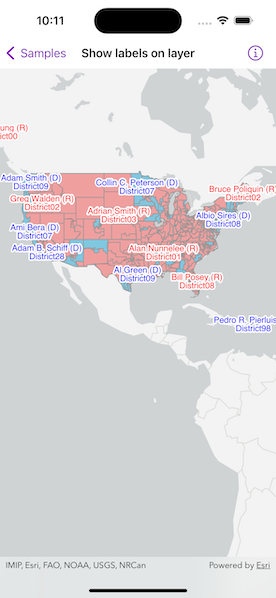
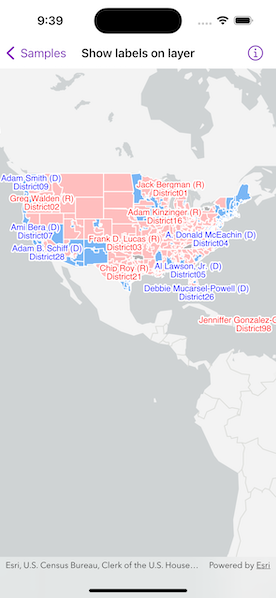
Update with review suggestions.

diff --git a/Shared/Samples/Show labels on layer/ShowLabelsOnLayerView.swift b/Shared/Samples/Show labels on layer/ShowLabelsOnLayerView.swift
@@ -39,13 +39,16 @@ struct ShowLabelsOnLayerView: View {
         MapView(map: map)
             .task {
                 do {
-                    // Create a feature table from the URL.
-                    let featureTable = ServiceFeatureTable(url: .usaCongressionalDistricts)
+                    // Create a portal item from an id.
+                    let portalItem = PortalItem(
+                        portal: .arcGISOnline(connection: .anonymous),
+                        id: .usaCongressionalDistricts
+                    )
                     
-                    try await featureTable.load()
+                    try await portalItem.load()
                     
-                    // Create a feature layer from the table.
-                    let featureLayer = FeatureLayer(featureTable: featureTable)
+                    // Create a feature layer from the portal item.
+                    let featureLayer = FeatureLayer(item: portalItem)
                     
                     // Add the layer to the map.
                     map.addOperationalLayer(featureLayer)
@@ -62,7 +65,7 @@ struct ShowLabelsOnLayerView: View {
 }
 
 private extension ShowLabelsOnLayerView {
-    /// Adds labels to a feature layer.
+    /// Add labels to a feature layer.
     /// - Parameter layer: The `FeatureLayer` to add the labels to.
     func addLabels(to layer: FeatureLayer) {
         // Create label definitions for the two groups.
@@ -76,7 +79,7 @@ private extension ShowLabelsOnLayerView {
         layer.labelsAreEnabled = true
     }
     
-    /// Creates a label definition for the given PARTY field value and color.
+    /// Create a label definition for the given PARTY field value and color.
     /// - Parameters:
     ///   - party: A `String` representing the party.
     ///   - color: The `UIColor` for the label.
@@ -103,9 +106,7 @@ private extension ShowLabelsOnLayerView {
     }
 }
 
-private extension URL {
-    /// A feature table URL for a USA Congressional Districts Analysis.
-    static var usaCongressionalDistricts: URL {
-        URL(string: "https://services.arcgis.com/P3ePLMYs2RVChkJx/arcgis/rest/services/USA_Congressional_Districts_analysis/FeatureServer/0")!
-    }
+private extension PortalItem.ID {
+    /// An id for a USA Congressional Districts Analysis feature table.
+    static var usaCongressionalDistricts: Self { Self("cc6a869374434bee9fefad45e291b779 ")! }
 }
